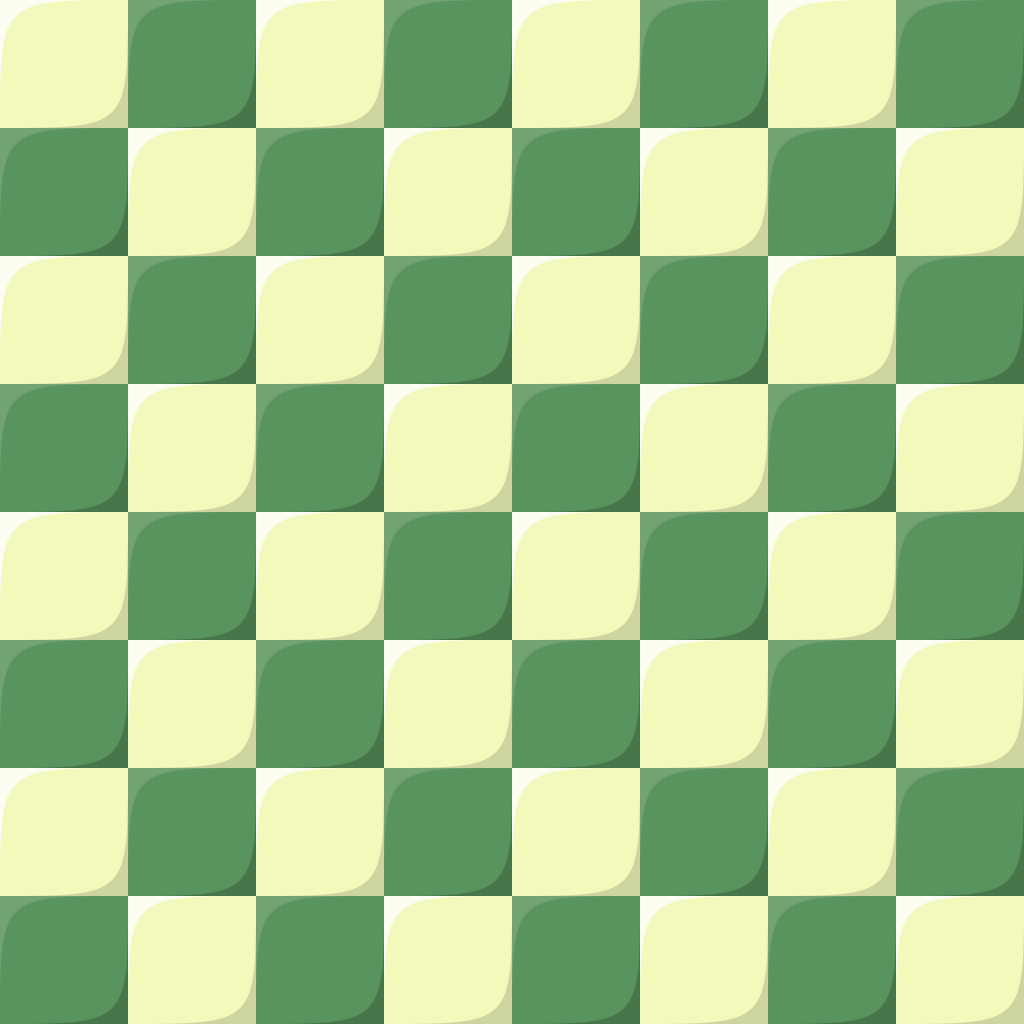
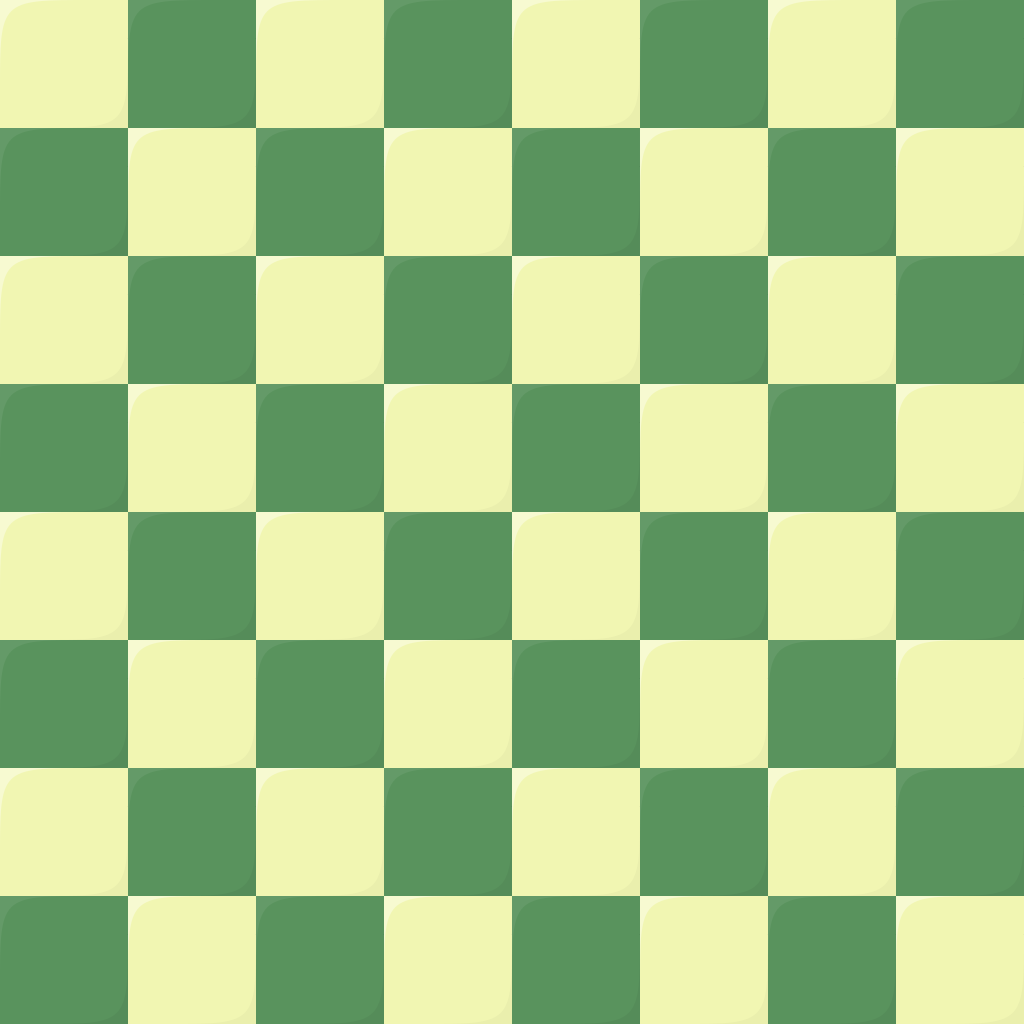
remove orange board, add purple board, update green board
for #5707

diff --git a/ui/dasher/css/_board.scss b/ui/dasher/css/_board.scss
@@ -87,8 +87,8 @@
     .green-plastic {
       background-image: url(../images/board/green-plastic.thumbnail.png);
     }
-    .green-glass {
-      background-image: url(../images/board/green-glass.thumbnail.png);
+    .purple-diag {
+      background-image: url(../images/board/purple-diag.thumbnail.png);
     }
     .pink {
       background-image: url(../images/board/pink-pyramid.thumbnail.png);
